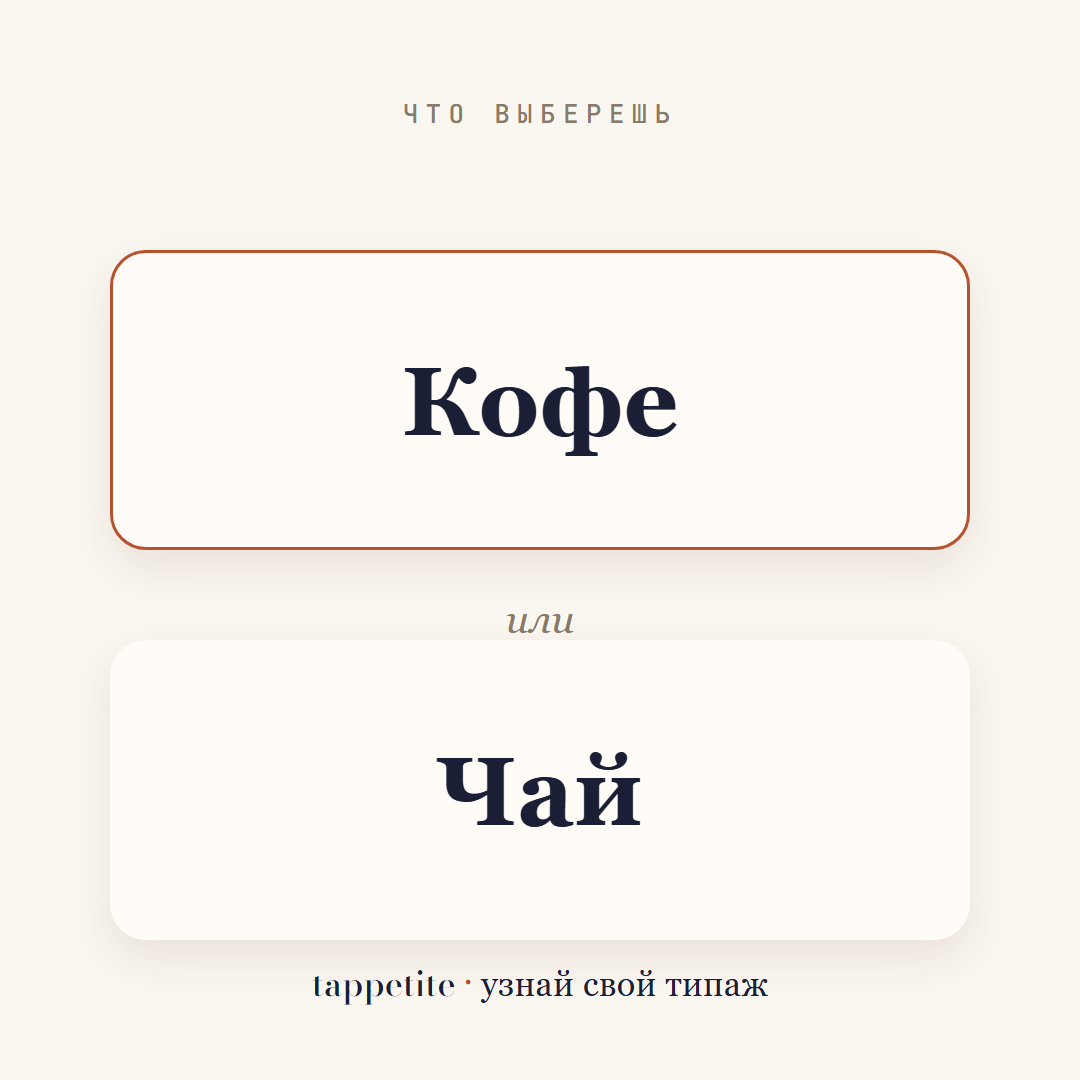
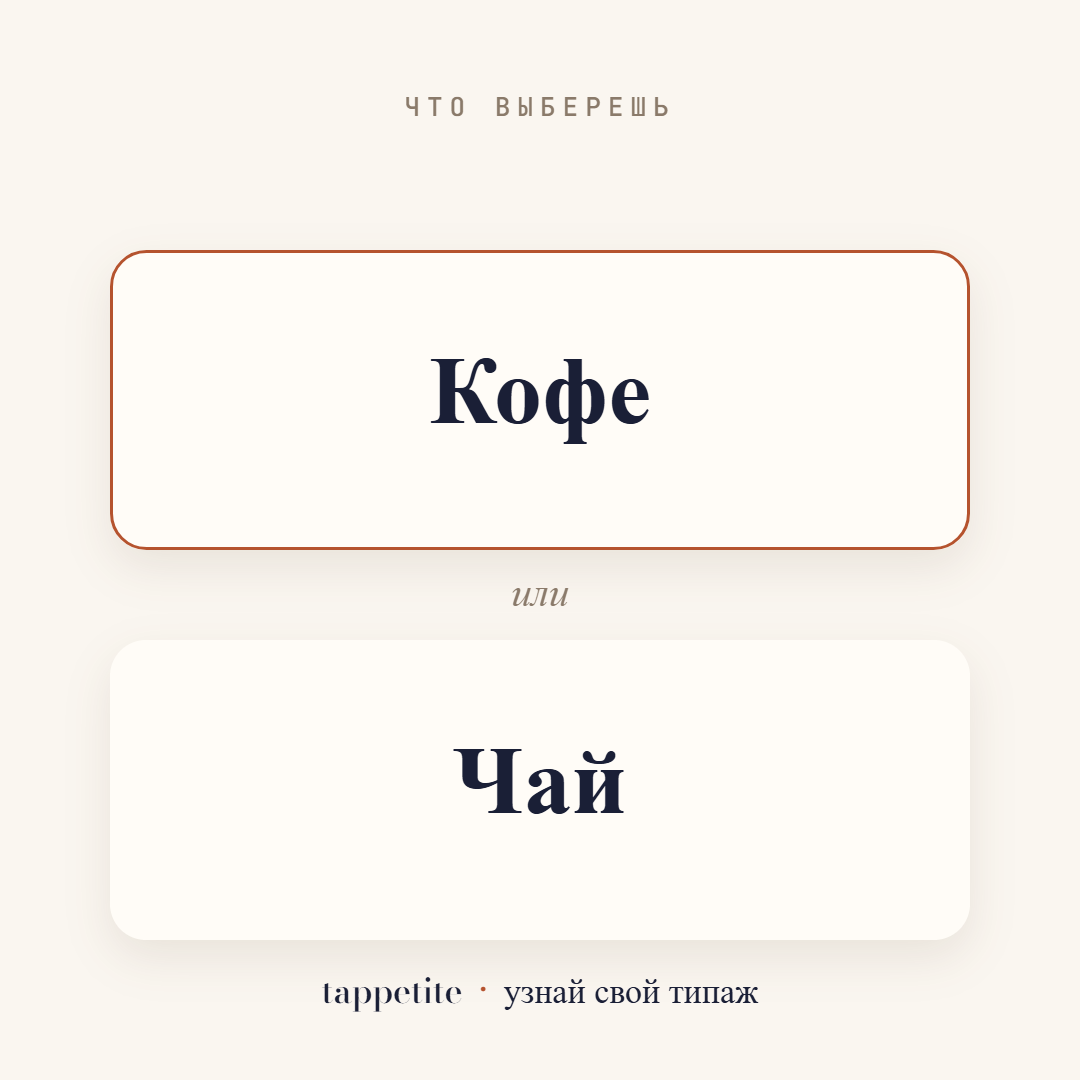
Interactive post template: click-to-edit text, PNG download, light/dark theme

diff --git a/templates/ig_post_square.html b/templates/ig_post_square.html
@@ -1,56 +1,231 @@
 <!doctype html>
-<html lang="ru">
+<html lang="ru" data-theme="light">
 <head>
 <meta charset="utf-8">
+<meta name="viewport" content="width=device-width, initial-scale=1">
 <title>Tappetite — шаблон поста 1:1</title>
 <!--
-  КАК ПОЛЬЗОВАТЬСЯ:
+  КАК ПОЛЬЗОВАТЬСЯ (ничего кодить не нужно):
   1. Открой этот файл в браузере (двойной клик).
-  2. Поменяй текст ниже в двух местах, помеченных  <!== МЕНЯЙ ==>.
-  3. Сделай скриншот квадрата (или Ctrl/Cmd+P → Сохранить как PDF → обрежь).
-     Размер холста уже 1080x1080 — идеально для Instagram 1:1.
+  2. Кликни прямо по тексту на картинке и печатай свой — меняются подпись сверху
+     и два варианта («Кофе» / «Чай»).
+  3. Нажми «Скачать PNG» — сохранится готовый квадрат 1080x1080 для Instagram.
+     (Хочешь ночную сторис — переключи тему на тёмную.)
 -->
-<link href="https://fonts.googleapis.com/css2?family=Bodoni+Moda:ital,opsz,wght@0,6..96,500;0,6..96,600;1,6..96,500&family=JetBrains+Mono:wght@500&family=Onest:wght@400;500&display=swap" rel="stylesheet">
+<link href="https://fonts.googleapis.com/css2?family=Bodoni+Moda:ital,opsz,wght@0,6..96,500;0,6..96,600;1,6..96,500;1,6..96,600&family=JetBrains+Mono:wght@500&family=Onest:wght@400;500;600&display=swap" rel="stylesheet">
 <style>
-  * { margin:0; padding:0; box-sizing:border-box; }
-  body { background:#cfc6b4; display:flex; align-items:center; justify-content:center; min-height:100vh; }
-  .card {
-    width:1080px; height:1080px; background:#FAF6F0; position:relative;
-    font-family:'Bodoni Moda', Georgia, serif; color:#1A1F36; overflow:hidden;
+  :root{
+    --bg:#FAF6F0; --card:#FFFCF7; --ink:#1A1F36; --accent:#B5532E; --muted:#8A7A6A; --page:#DDD5C7;
   }
-  .eyebrow {
+  :root[data-theme="dark"]{
+    --bg:#1F1B16; --card:#2A2420; --ink:#F5EFE7; --accent:#D4885C; --muted:#B5A695; --page:#141210;
+  }
+  *{margin:0;padding:0;box-sizing:border-box}
+  html,body{height:100%}
+  body{
+    background:var(--page); color:var(--ink);
+    font-family:'Onest',system-ui,sans-serif;
+    display:flex; flex-direction:column; align-items:center;
+    min-height:100vh; padding:18px 14px 40px;
+  }
+
+  /* ── панель управления (её нет на самой картинке) ── */
+  .bar{
+    width:100%; max-width:1080px; display:flex; flex-wrap:wrap; gap:12px;
+    align-items:center; justify-content:space-between; margin-bottom:20px;
+  }
+  .bar .hint{ font-size:15px; color:var(--ink); opacity:.8; line-height:1.4; max-width:520px }
+  .bar .hint b{ color:var(--accent) }
+  .controls{ display:flex; gap:10px; flex-wrap:wrap }
+  button.ui{
+    font-family:'Onest',sans-serif; font-size:15px; font-weight:600; cursor:pointer;
+    border:1.5px solid var(--accent); border-radius:12px; padding:12px 18px; transition:.15s;
+  }
+  button.primary{ background:var(--accent); color:#fff }
+  button.primary:hover{ filter:brightness(1.06) }
+  button.ghost{ background:transparent; color:var(--accent) }
+  button.ghost:hover{ background:color-mix(in srgb, var(--accent) 10%, transparent) }
+
+  /* ── холст поста ── */
+  .stage{ width:100%; display:flex; justify-content:center }
+  .scaler{ transform-origin:top center }
+  .card{
+    width:1080px; height:1080px; background:var(--bg); position:relative;
+    font-family:'Bodoni Moda',Georgia,serif; color:var(--ink); overflow:hidden;
+    border-radius:8px; box-shadow:0 24px 60px rgba(0,0,0,.16);
+  }
+  .eyebrow{
     position:absolute; top:96px; left:0; width:100%; text-align:center;
-    font-family:'JetBrains Mono', monospace; font-size:26px; letter-spacing:0.28em;
-    text-transform:uppercase; color:#8A7A6A;
+    font-family:'JetBrains Mono',monospace; font-size:26px; letter-spacing:.28em;
+    text-transform:uppercase; color:var(--muted);
   }
-  .opt {
-    position:absolute; left:110px; width:860px; height:300px; background:#FFFCF7;
+  .opt{
+    position:absolute; left:110px; width:860px; height:300px; background:var(--card);
     border-radius:36px; display:flex; align-items:center; justify-content:center;
     box-shadow:0 18px 44px rgba(90,60,30,.10); border:3px solid transparent;
   }
-  .optA { top:250px; border-color:#B5532E; }   /* акцент на верхней — «твой выбор» */
-  .optB { top:640px; }
-  .opt .nm { font-size:96px; font-weight:600; padding:0 40px; text-align:center; }
-  .orr {
+  :root[data-theme="dark"] .opt{ box-shadow:0 18px 44px rgba(0,0,0,.30) }
+  .optA{ top:250px; border-color:var(--accent) }
+  .optB{ top:640px }
+  .opt .nm{ font-size:96px; font-weight:600; padding:0 40px; text-align:center; line-height:1.05 }
+  .orr{
     position:absolute; top:588px; width:100%; text-align:center;
-    font-style:italic; font-size:40px; color:#8A7A6A;
+    font-style:italic; font-size:40px; color:var(--muted);
   }
-  .foot {
+  .foot{
     position:absolute; bottom:70px; left:0; width:100%; text-align:center;
-    font-size:34px; letter-spacing:.01em; color:#1A1F36;
+    font-size:34px; letter-spacing:.01em; color:var(--ink);
   }
-  .foot .dot { color:#B5532E; }
+  .foot .dot{ color:var(--accent) }
+
+  /* редактируемые места: подсказка что можно кликать и печатать (только на экране) */
+  [contenteditable]{ outline:none; cursor:text; border-radius:10px; transition:box-shadow .15s }
+  [contenteditable]:hover{ box-shadow:0 0 0 2px color-mix(in srgb, var(--accent) 35%, transparent) }
+  [contenteditable]:focus{ box-shadow:0 0 0 2px var(--accent) }
+
+  @media (max-width:600px){ .bar .hint{ order:2; width:100% } }
 </style>
 </head>
 <body>
-  <div class="card">
-    <div class="eyebrow">Что выберешь</div>          <!-- <!== МЕНЯЙ (подпись-капс) -->
 
-    <div class="opt optA"><div class="nm">Кофе</div></div>   <!-- <!== МЕНЯЙ (вариант A) -->
-    <div class="orr">или</div>
-    <div class="opt optB"><div class="nm">Чай</div></div>    <!-- <!== МЕНЯЙ (вариант B) -->
-
-    <div class="foot">tappetite <span class="dot">·</span> узнай свой типаж</div>
+  <div class="bar">
+    <div class="hint">Кликни по любому тексту на квадрате и печатай свой. Потом <b>«Скачать PNG»</b> — получишь готовый пост 1080×1080.</div>
+    <div class="controls">
+      <button class="ui ghost" id="themeBtn" title="Светлая / тёмная">◐ Тема</button>
+      <button class="ui primary" id="dlBtn">↓ Скачать PNG</button>
+    </div>
   </div>
+
+  <div class="stage">
+    <div class="scaler" id="scaler">
+      <div class="card" id="card">
+        <div class="eyebrow"  contenteditable="true" spellcheck="false">Что выберешь</div>
+
+        <div class="opt optA"><div class="nm" contenteditable="true" spellcheck="false">Кофе</div></div>
+        <div class="orr">или</div>
+        <div class="opt optB"><div class="nm" contenteditable="true" spellcheck="false">Чай</div></div>
+
+        <div class="foot">tappetite <span class="dot">·</span> узнай свой типаж</div>
+      </div>
+    </div>
+  </div>
+
+<script>
+(function(){
+  var root = document.documentElement;
+  var card = document.getElementById('card');
+  var scaler = document.getElementById('scaler');
+
+  // ── тема ──
+  document.getElementById('themeBtn').addEventListener('click', function(){
+    root.setAttribute('data-theme', root.getAttribute('data-theme')==='dark' ? 'light' : 'dark');
+  });
+
+  // ── вставка без форматирования + без переносов строк ──
+  document.querySelectorAll('[contenteditable]').forEach(function(el){
+    el.addEventListener('paste', function(e){
+      e.preventDefault();
+      var t = (e.clipboardData||window.clipboardData).getData('text').replace(/\s+/g,' ').trim();
+      document.execCommand('insertText', false, t);
+    });
+    el.addEventListener('keydown', function(e){ if(e.key==='Enter'){ e.preventDefault(); el.blur(); } });
+  });
+
+  // ── подгон масштаба под ширину экрана ──
+  function fit(){
+    var avail = Math.min(1080, (document.querySelector('.stage').clientWidth));
+    var s = Math.min(1, avail/1080);
+    scaler.style.transform = 'scale('+s+')';
+    scaler.style.height = (1080*s)+'px';
+    scaler.style.width  = '1080px';
+  }
+  window.addEventListener('resize', fit); fit();
+
+  // ── темы для PNG (точные значения бренда) ──
+  var THEMES = {
+    light:{ bg:'#FAF6F0', card:'#FFFCF7', ink:'#1A1F36', accent:'#B5532E', muted:'#8A7A6A', shadow:'rgba(90,60,30,0.10)' },
+    dark: { bg:'#1F1B16', card:'#2A2420', ink:'#F5EFE7', accent:'#D4885C', muted:'#B5A695', shadow:'rgba(0,0,0,0.35)'   }
+  };
+  function txt(sel){ return (document.querySelector(sel).textContent||'').replace(/\s+/g,' ').trim(); }
+
+  function roundRect(ctx,x,y,w,h,r){
+    if(ctx.roundRect){ ctx.beginPath(); ctx.roundRect(x,y,w,h,r); return; }
+    ctx.beginPath();
+    ctx.moveTo(x+r,y); ctx.arcTo(x+w,y,x+w,y+h,r); ctx.arcTo(x+w,y+h,x,y+h,r);
+    ctx.arcTo(x,y+h,x,y,r); ctx.arcTo(x,y,x+w,y,r); ctx.closePath();
+  }
+  // подгон размера шрифта, чтобы длинное слово влезло в карточку
+  function fitFont(ctx, text, weight, maxW){
+    var size = 96;
+    while(size>44){
+      ctx.font = weight+' '+size+'px "Bodoni Moda"';
+      if(ctx.measureText(text).width <= maxW) break;
+      size -= 4;
+    }
+    return size;
+  }
+
+  async function draw(){
+    var T = THEMES[root.getAttribute('data-theme')==='dark'?'dark':'light'];
+    var cv = document.createElement('canvas'); cv.width=1080; cv.height=1080;
+    var ctx = cv.getContext('2d');
+
+    // фон
+    ctx.fillStyle = T.bg; ctx.fillRect(0,0,1080,1080);
+
+    // карточки
+    [[250,true],[640,false]].forEach(function(o){
+      var y=o[0], accent=o[1];
+      ctx.save();
+      ctx.shadowColor=T.shadow; ctx.shadowBlur=44; ctx.shadowOffsetY=18;
+      roundRect(ctx,110,y,860,300,36); ctx.fillStyle=T.card; ctx.fill();
+      ctx.restore();
+      if(accent){ roundRect(ctx,111.5,y+1.5,857,297,35); ctx.lineWidth=3; ctx.strokeStyle=T.accent; ctx.stroke(); }
+    });
+
+    // подпись-капс сверху
+    ctx.fillStyle=T.muted; ctx.textAlign='center'; ctx.textBaseline='top';
+    ctx.font='500 26px "JetBrains Mono"'; if('letterSpacing' in ctx) ctx.letterSpacing='7px';
+    ctx.fillText(txt('.eyebrow').toUpperCase(), 540, 96);
+    if('letterSpacing' in ctx) ctx.letterSpacing='0px';
+
+    // варианты
+    ctx.textBaseline='middle'; ctx.fillStyle=T.ink;
+    var a=txt('.optA .nm'), b=txt('.optB .nm');
+    var sa=fitFont(ctx,a,'600',780); ctx.font='600 '+sa+'px "Bodoni Moda"'; ctx.fillText(a,540,400);
+    var sb=fitFont(ctx,b,'600',780); ctx.font='600 '+sb+'px "Bodoni Moda"'; ctx.fillText(b,540,790);
+
+    // «или»
+    ctx.fillStyle=T.muted; ctx.font='italic 500 40px "Bodoni Moda"'; ctx.fillText('или',540,596);
+
+    // футер
+    ctx.textBaseline='bottom';
+    ctx.font='500 34px "Bodoni Moda"';
+    var pre='tappetite  ', dot='·', post='  узнай свой типаж';
+    var wPre=ctx.measureText(pre).width, wDot=ctx.measureText(dot).width, wPost=ctx.measureText(post).width;
+    var total=wPre+wDot+wPost, x0=540-total/2; ctx.textAlign='left';
+    ctx.fillStyle=T.ink;    ctx.fillText(pre,  x0,1012);
+    ctx.fillStyle=T.accent; ctx.fillText(dot,  x0+wPre,1012);
+    ctx.fillStyle=T.ink;    ctx.fillText(post, x0+wPre+wDot,1012);
+
+    return cv;
+  }
+
+  document.getElementById('dlBtn').addEventListener('click', async function(){
+    var btn=this, old=btn.textContent; btn.textContent='…'; btn.disabled=true;
+    try{
+      await document.fonts.load('600 96px "Bodoni Moda"');
+      await document.fonts.load('italic 500 40px "Bodoni Moda"');
+      await document.fonts.load('500 34px "Bodoni Moda"');
+      await document.fonts.load('500 26px "JetBrains Mono"');
+      await document.fonts.ready;
+      var cv=await draw();
+      var a=document.createElement('a');
+      a.download='tappetite-post.png'; a.href=cv.toDataURL('image/png'); a.click();
+    }catch(err){ alert('Не получилось собрать PNG: '+err+'\nМожно просто сделать скриншот квадрата.'); }
+    finally{ btn.textContent=old; btn.disabled=false; }
+  });
+})();
+</script>
 </body>
 </html>

diff --git a/index.html b/index.html
@@ -183,8 +183,8 @@
   <section>
     <div class="eyebrow">шаблон</div>
     <h2>Готовый пост 1:1</h2>
-    <p>Открой шаблон, поменяй два слова, сделай скриншот квадрата — стиль уже зашит,
-    промахнуться нельзя.</p>
+    <p>Открой шаблон, кликни по тексту прямо на квадрате, впиши свой вариант и нажми
+    «Скачать PNG». Стиль уже зашит, промахнуться нельзя. Есть светлая и тёмная тема.</p>
     <div class="tmpl">
       <img src="templates/example_output.png" alt="пример поста">
       <div>

diff --git a/INSTAGRAM_PLAYBOOK.md b/INSTAGRAM_PLAYBOOK.md
@@ -100,9 +100,10 @@ Tappetite — это интерактивная версия вирусных ф
 подпись-капс «ЧТО ВЫБЕРЕШЬ», снизу маленький вордмарк «tappetite».
 ```
 
-> Совет: **самый быстрый способ картинки** — не генерить с нуля, а открыть
-> `templates/ig_post_square.html`, поменять два слова и сделать скриншот. Стиль
-> уже зашит, промахнуться нельзя.
+> Совет: **самый быстрый способ картинки** - не генерить с нуля, а открыть
+> `templates/ig_post_square.html`, кликнуть по тексту прямо на квадрате, вписать
+> свой вариант и нажать «Скачать PNG» (есть светлая и тёмная тема). Стиль уже
+> зашит, промахнуться нельзя.
 
 ---
 